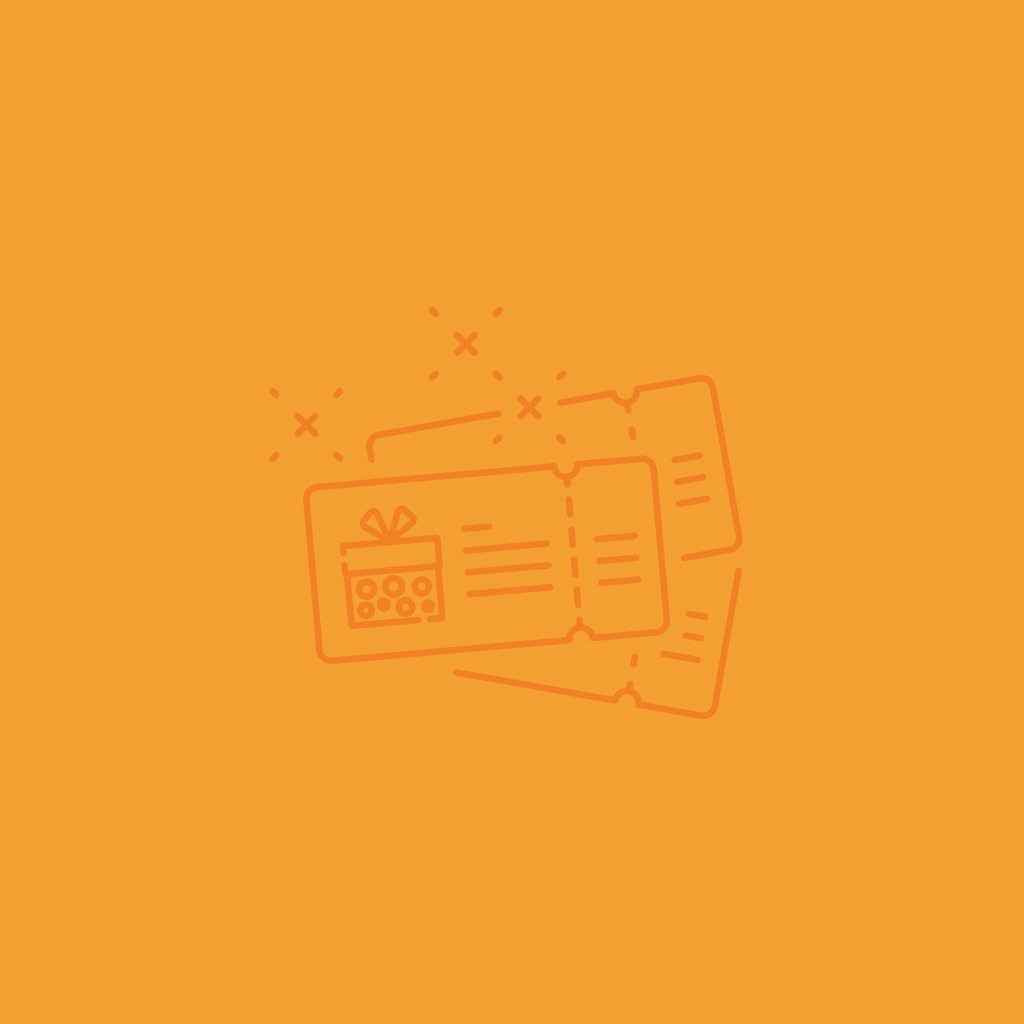
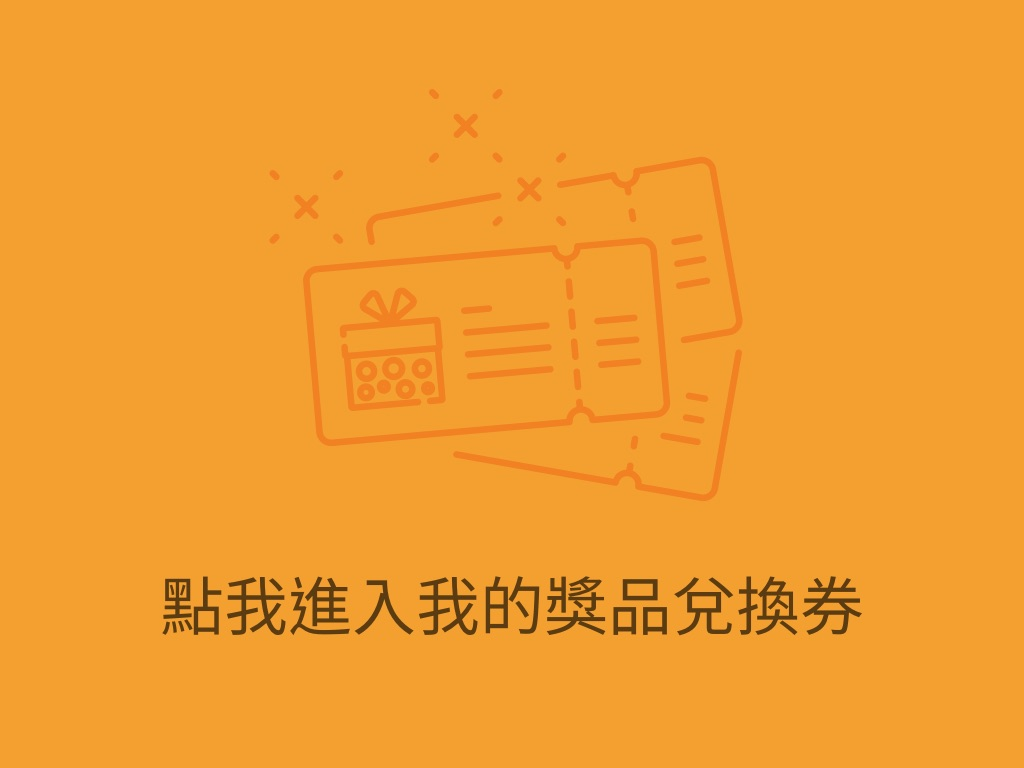
change img

diff --git a/routes/bot.js b/routes/bot.js
@@ -98,8 +98,8 @@ function imagemapReply(success, replyToken, message) {
             "baseUrl": message.url,
             "altText": "資料準備好囉，點我看資訊~",
             "baseSize": {
-                "height": 1040,
-                "width": 1040
+                "height": 768,
+                "width": 1024
             },
             "actions": [{
                 "type": "uri",
@@ -107,8 +107,8 @@ function imagemapReply(success, replyToken, message) {
                 "area": {
                     "x": 0,
                     "y": 0,
-                    "width": 1040,
-                    "height": 1040
+                    "height": 768,
+                    "width": 1024
                 }
             }]
         };

diff --git a/models/messageProcess.js b/models/messageProcess.js
@@ -165,9 +165,9 @@ module.exports = {
     },
     normalHandler: function(route, event, callback) {
         if (route === 'usage') {
-            var url = "https://bot.goodtogo.tw/getImg/msg/BotUsage";
+            var url = "https://bot.goodtogo.tw/getImg/msg/BotUsage1";
         } else if (route === 'lottery/coupons') {
-            var url = "https://bot.goodtogo.tw/getImg/msg/BotCoupon";
+            var url = "https://bot.goodtogo.tw/getImg/msg/BotCoupon1";
         }
         var returnStr = {
             url: url,

diff --git a/routes/getImg.js b/routes/getImg.js
@@ -13,8 +13,9 @@ fs.readFile("./config/prize.json", 'utf8', function(err, data) {
 
 router.get('/msg/:id/:res', function(req, res, next) {
     var index = req.params.id;
-    fs.readFile("./views/assets/image/" + index + ".jpg", function(err, data) {
+    fs.readFile("./views/assets/image/" + index.slice(0, index.length - 1) + ".jpg", function(err, data) {
         if (err) {
+            console.log(err)
             res.status(404).end();
         } else {
             res.set('Cache-Control', 'public, max-age=0');
